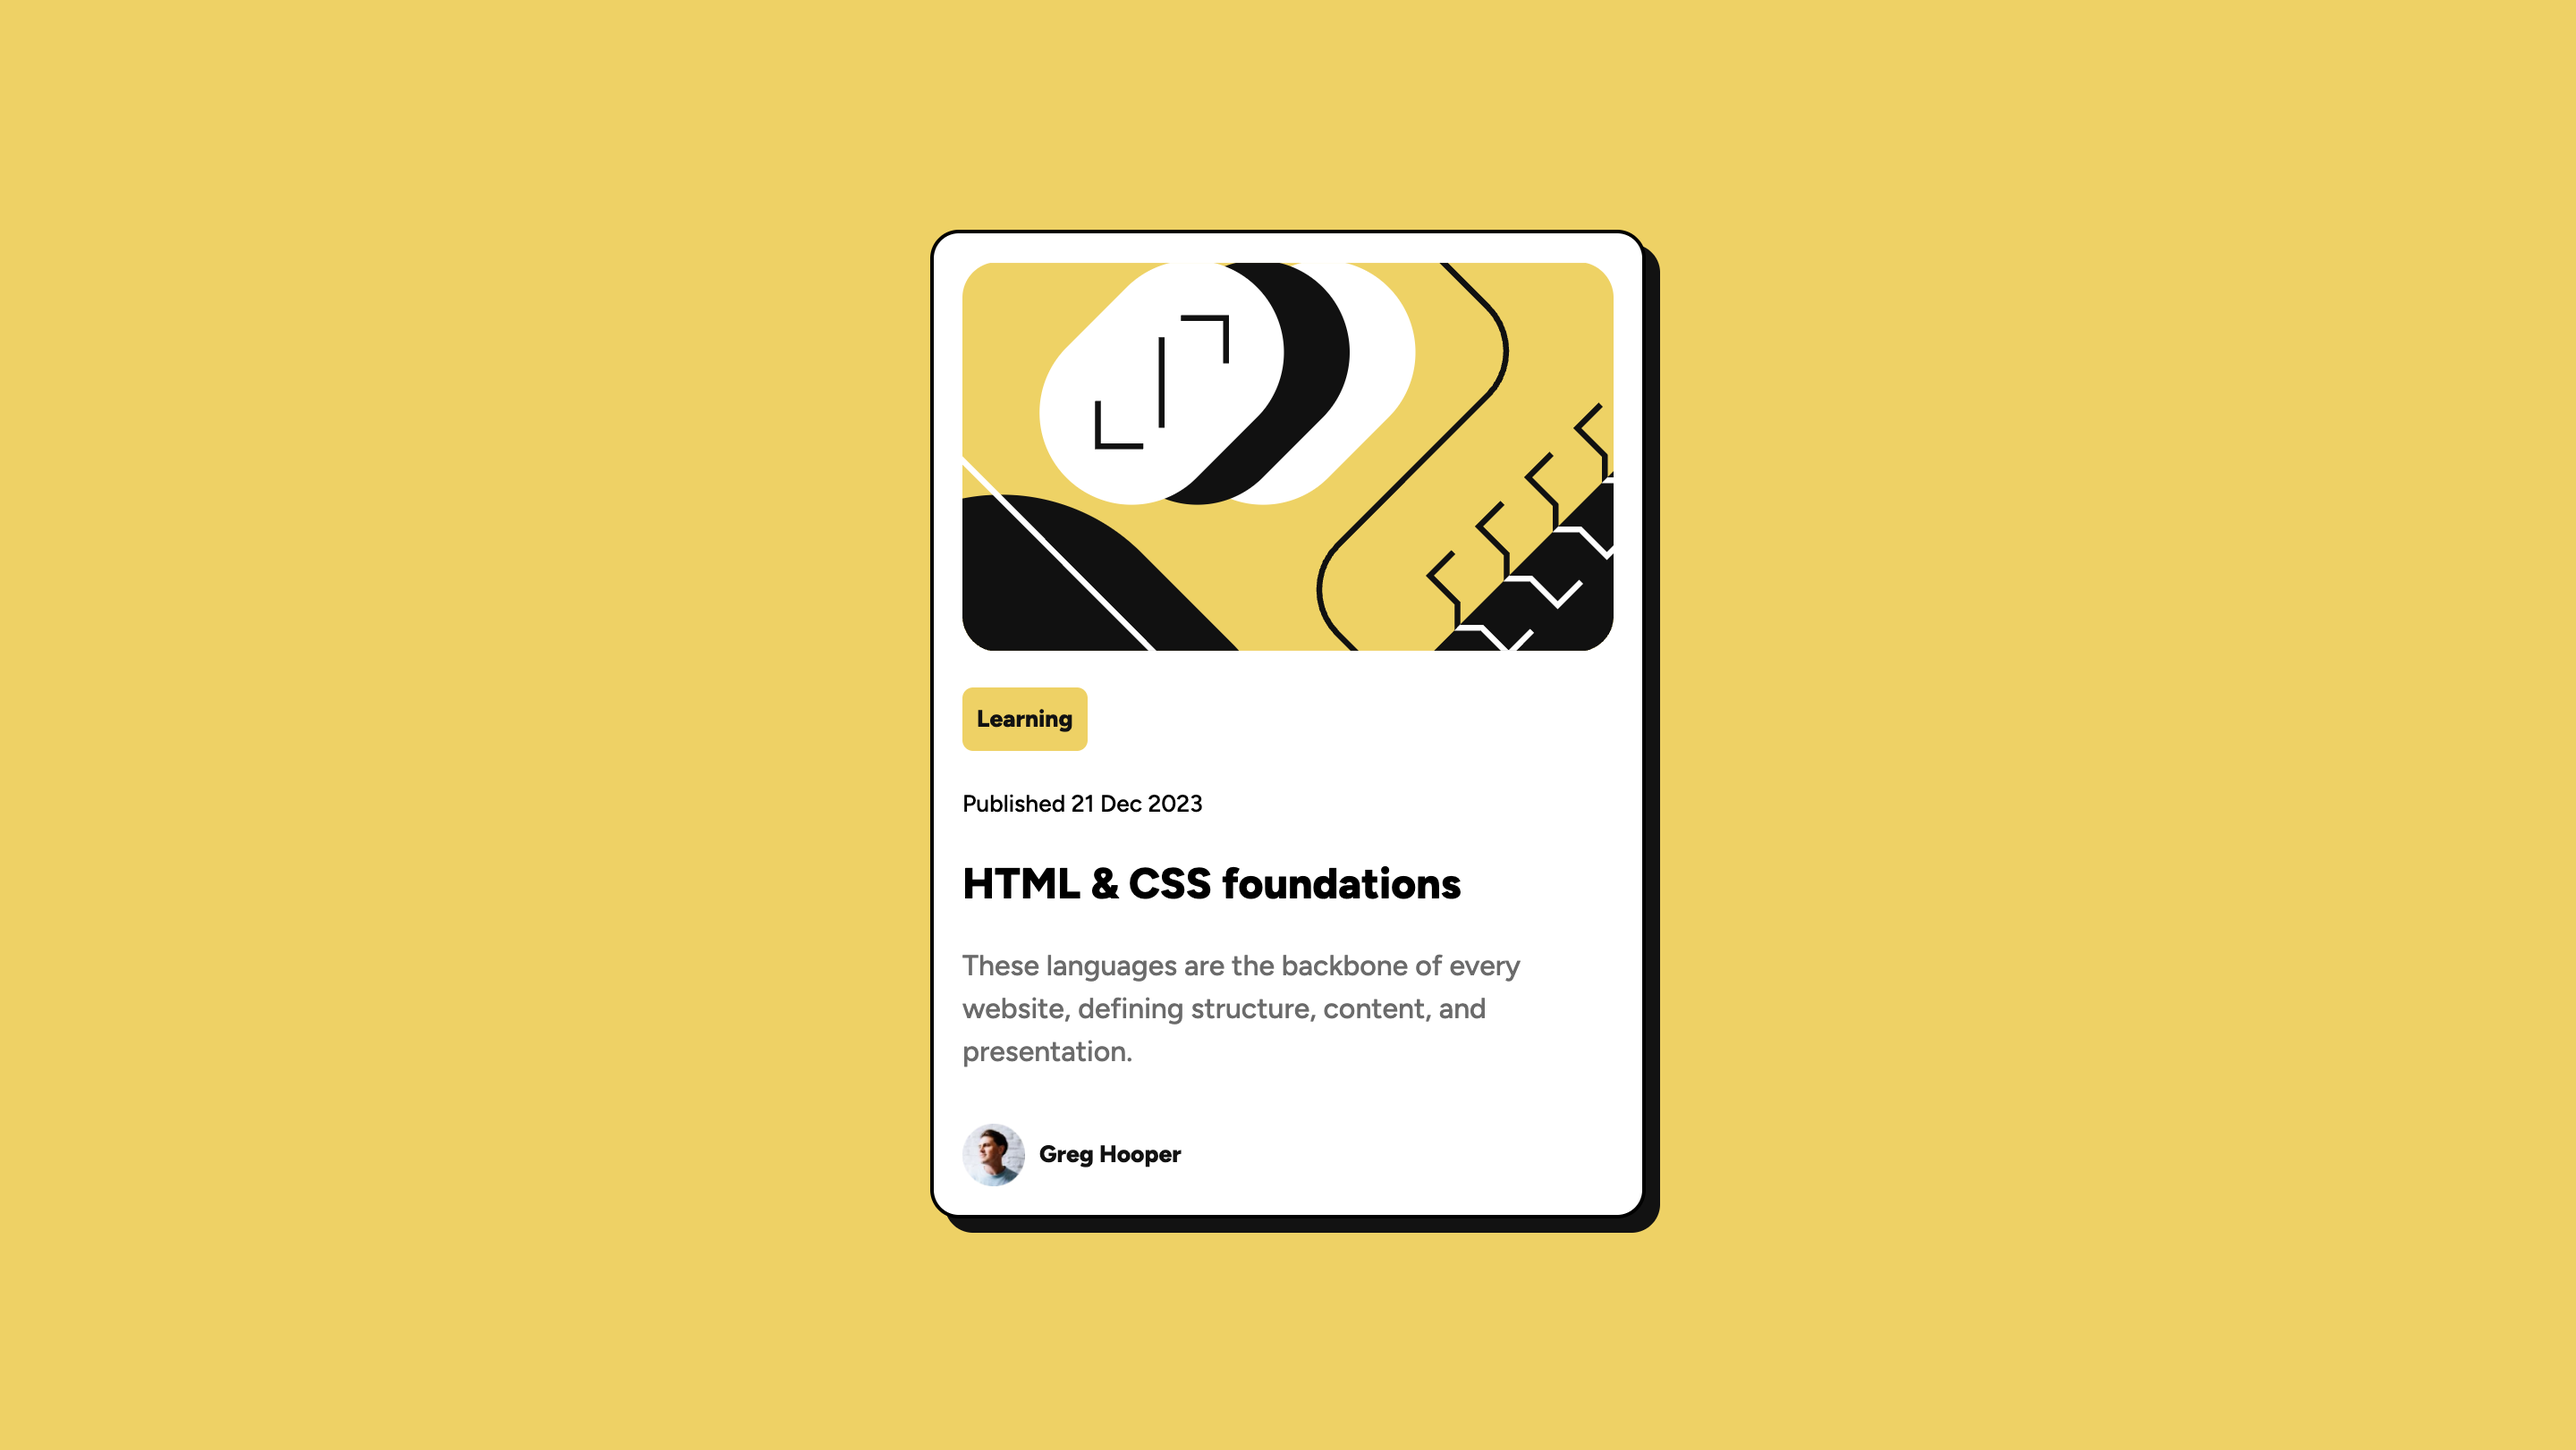
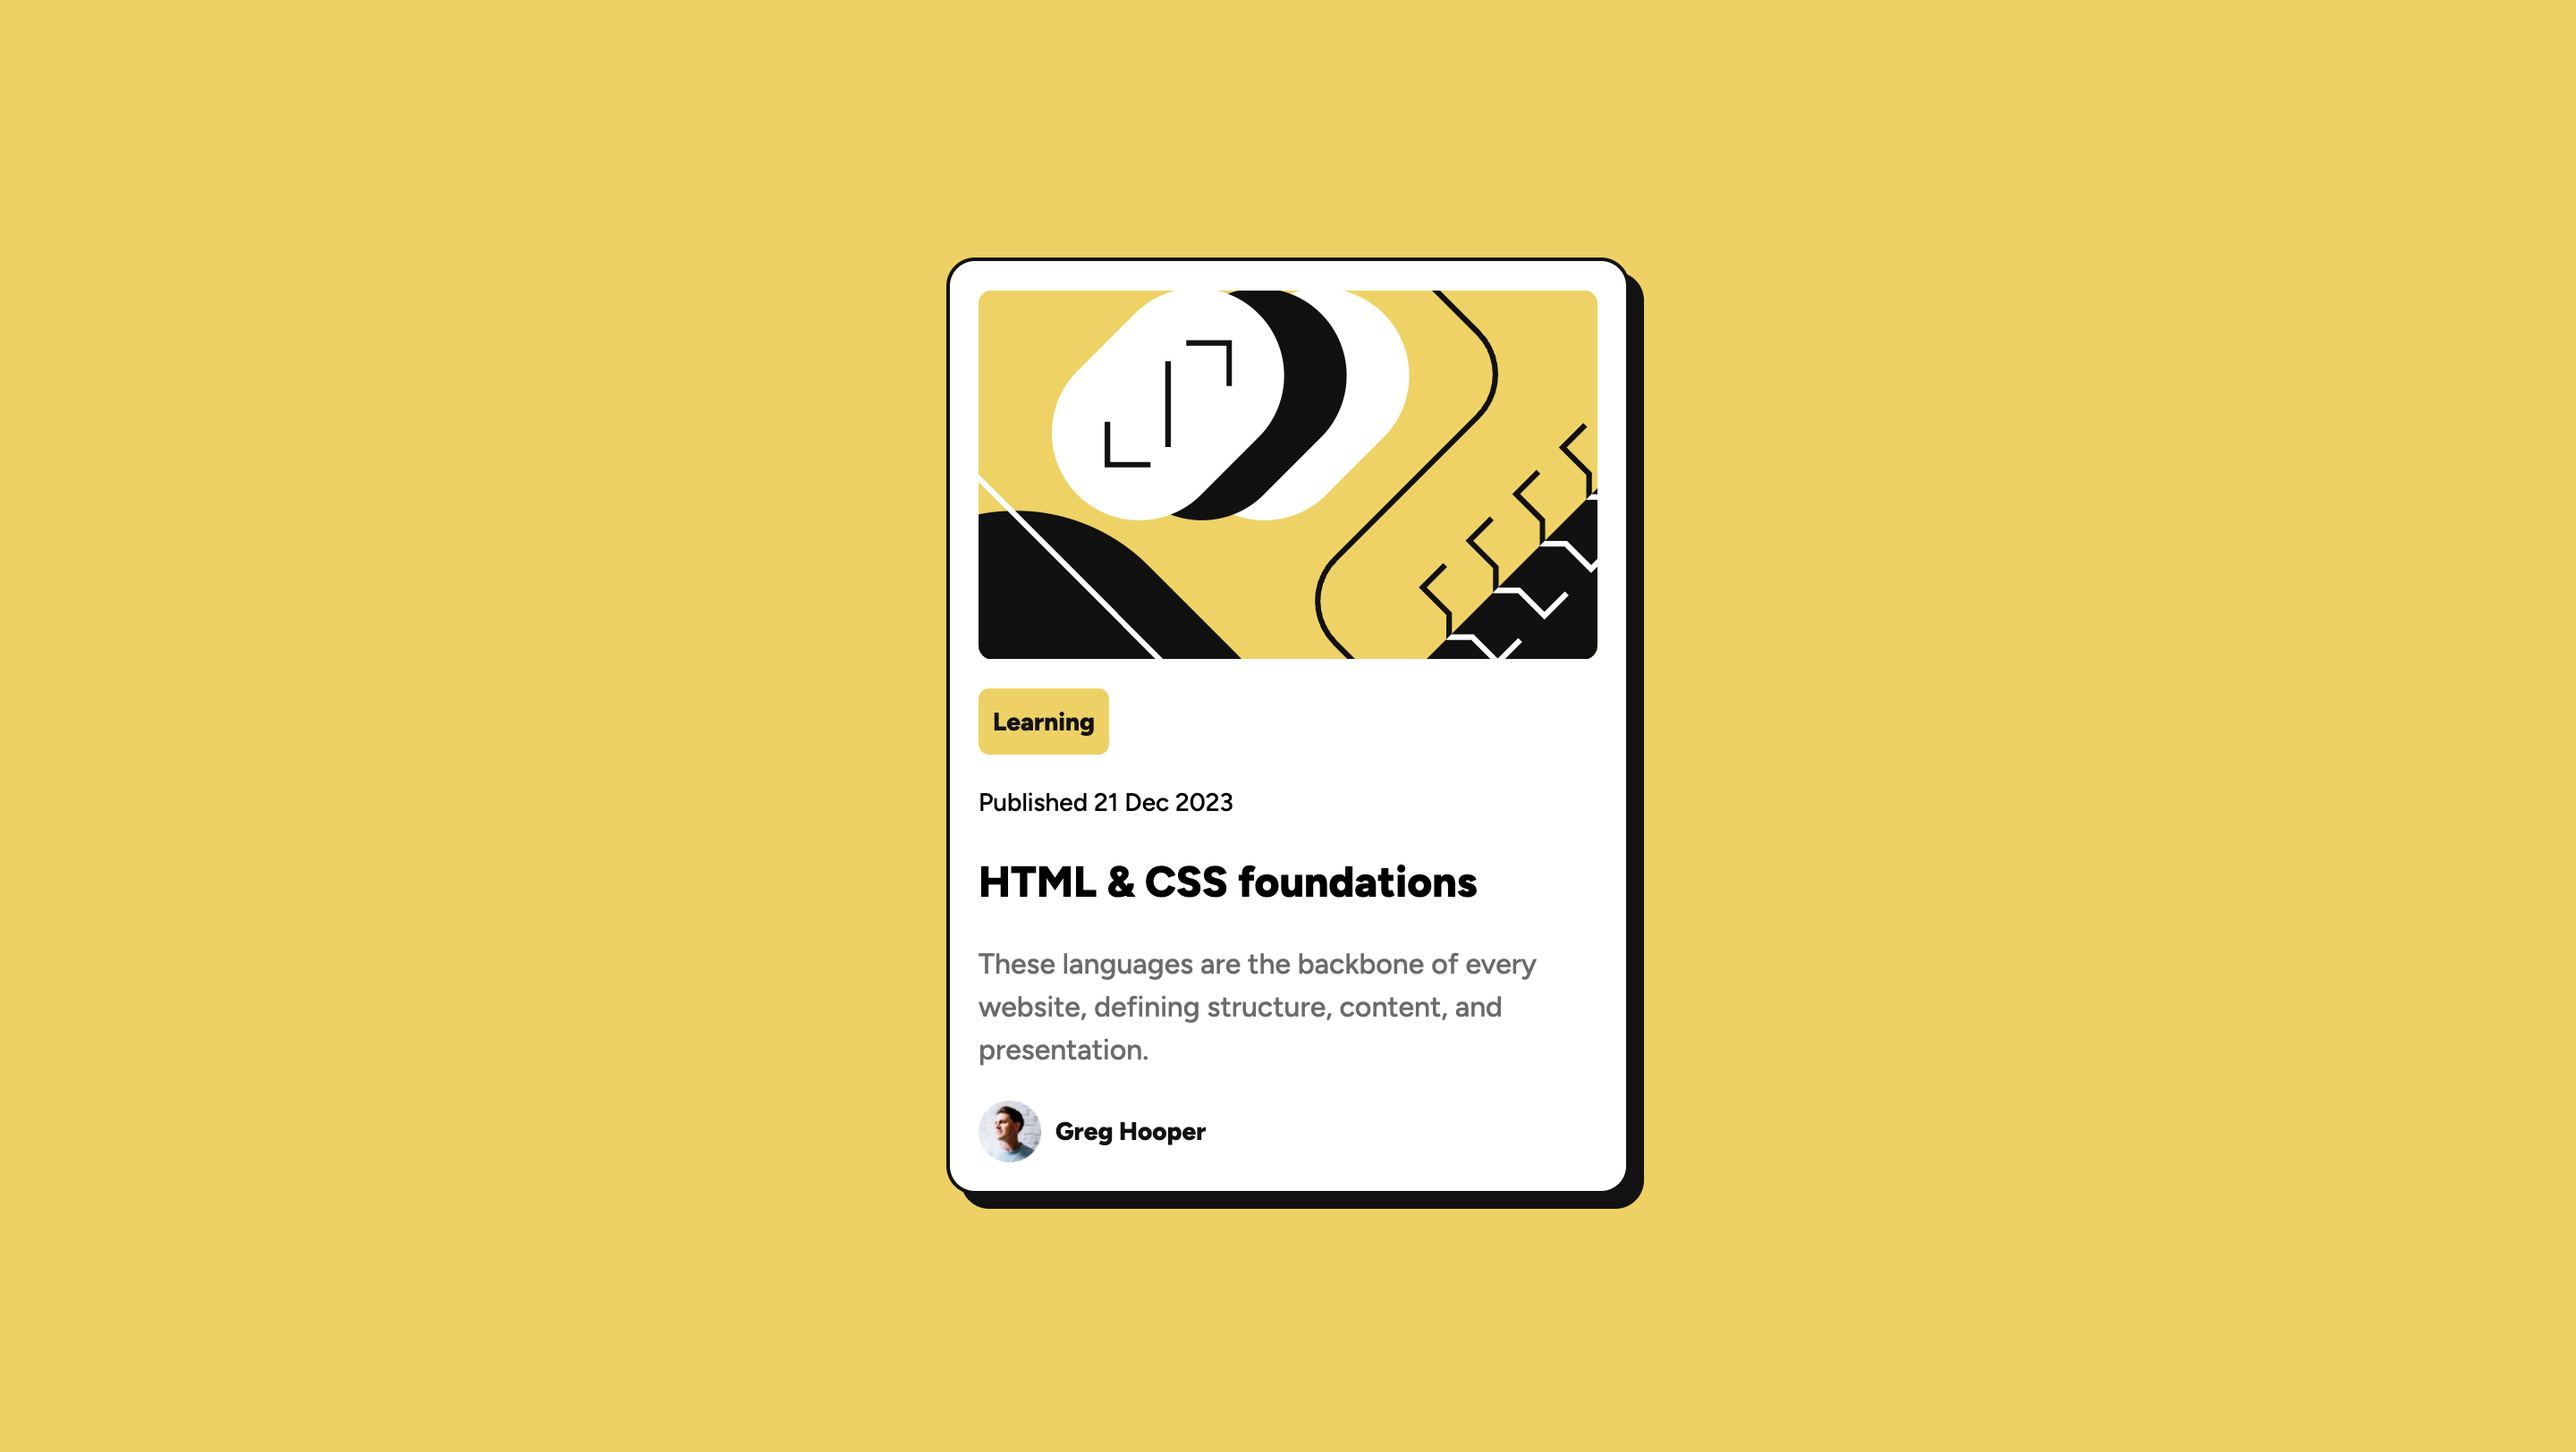
Add resized previews to readme

Changed region(s): [[0.3438, 0.1541, 0.6562, 0.8631]]

diff --git a/blog-preview-card/README.md b/blog-preview-card/README.md
@@ -20,7 +20,7 @@ Users should be able to:
 - See hover and focus states for all interactive elements on the page
 
 ### Screenshot
-![Mobile](./screenshots/mobile.png)
+<img src="./screenshots/mobile_ip16pm.png" alt="Mobile Preview" width="320">
 ![Desktop](./screenshots/desktop.png)
 
 ### Links
